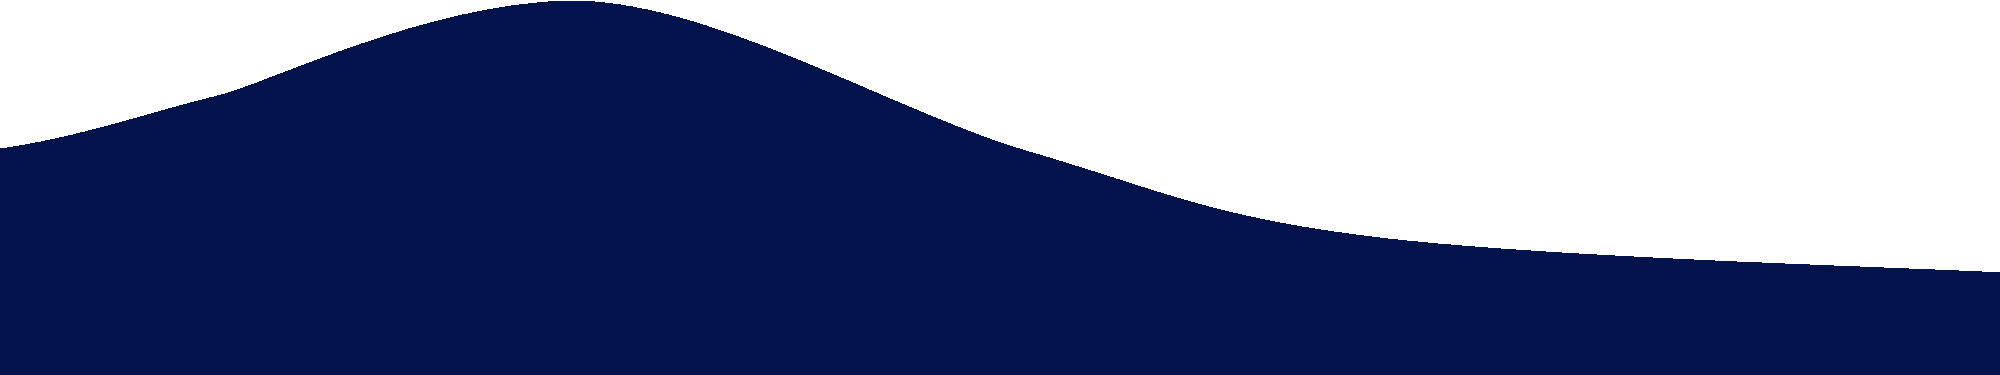
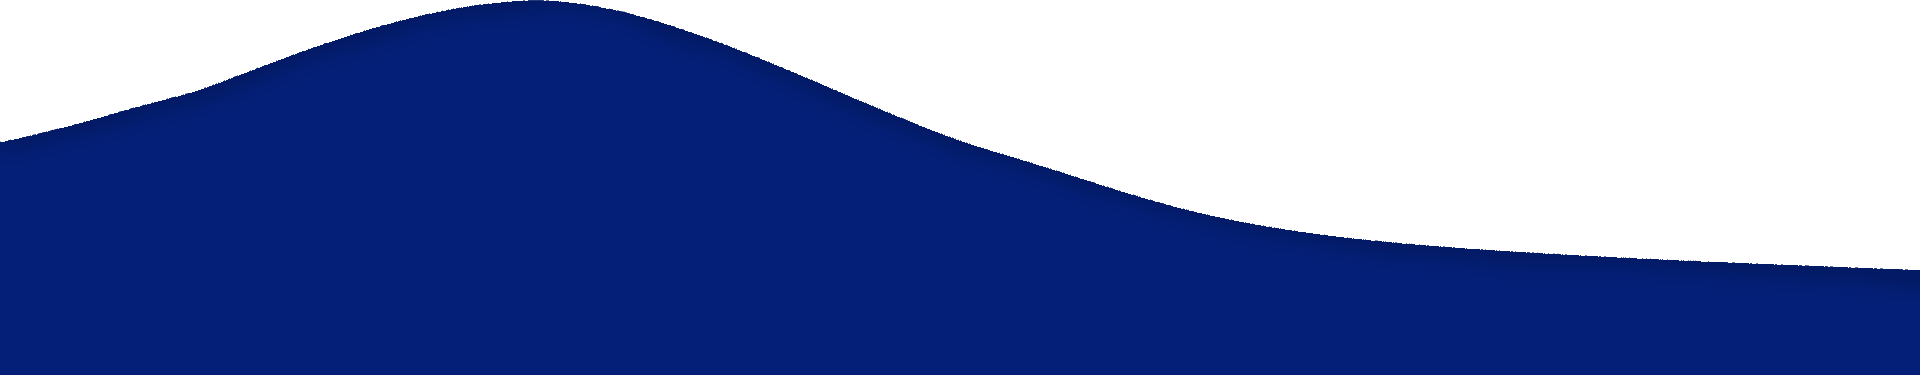
[feat] StarryNightComponent 배경 parallax 구현
- 뒷 산 배경이 parallax하게, 즉 스크롤에 따라 원근감이 느껴지도록
  움직이도록 구현
- ContactComponent의 텍스트가 맨 앞 산에 의해 가려지다가 나타나도록 구조
  수정
- 기타
    - AboutComponent의 Electron 그림을 Web Development에서 Extra로 옮김

diff --git a/public/scripts/starryNight.ts b/public/scripts/starryNight.ts
@@ -1,4 +1,4 @@
-const STAR_NUM = 500;
+const STAR_NUM = 150;
 const STAR_SPEED = 0.4;
 const SHOOTING_STAR_SPEED = 8;
 const TAIL_LENGTH = 150;
@@ -66,8 +66,13 @@ export function initStarrySky() {
   const observer = new IntersectionObserver(
     (entries, _observer) => {
       entries.forEach((entry) => {
-        if (entry.isIntersecting) startDrawing();
-        else stopDrawing();
+        if (entry.isIntersecting) {
+          startDrawing();
+          startParallex();
+        } else {
+          stopDrawing();
+          stopParallex();
+        }
       });
     },
     { threshold: 0.1 }
@@ -75,11 +80,11 @@ export function initStarrySky() {
   if (contactElement) observer.observe(contactElement);
 }
 
-export function startDrawing() {
+function startDrawing() {
   intervalID = window.setInterval(loop, 1000 / 60);
 }
 
-export function stopDrawing() {
+function stopDrawing() {
   window.clearInterval(intervalID);
 }
 
@@ -158,4 +163,50 @@ function resize(canvas: HTMLCanvasElement) {
   canvasHeight = canvas.height = window.innerHeight;
   shootingStarOffset = canvasHeight / tan60;
   context = canvas.getContext('2d');
+}
+
+function startParallex() {
+  window.addEventListener('scroll', moveHillsThrottled);
+  window.addEventListener('scrollend', moveHills);
+}
+
+function stopParallex() {
+  window.removeEventListener('scroll', moveHillsThrottled);
+  window.removeEventListener('scrollend', moveHills);
+}
+
+let timerId: number | null;
+function moveHillsThrottled() {
+  if (timerId) return;
+  timerId = window.setTimeout(() => {
+    moveHills();
+    timerId = null;
+  }, 300);
+}
+
+function moveHills() {
+  const hills = document.getElementsByClassName('hill');
+  const ground = document.getElementById('ground');
+  if (!hills || !ground) return;
+
+  const hillNum = hills.length;
+  if (hillNum === 0) return;
+
+  let scrollRatio =
+    (document.body.scrollHeight - window.scrollY) / window.innerHeight - 1;
+  scrollRatio = Math.min(scrollRatio, 0.4);
+
+  const scale = 1.5;
+  const diff = 0.8;
+  let hill: HTMLElement;
+  let bottom;
+  for (let i = 0; i < hillNum; i += 1) {
+    hill = hills.item(hillNum - 1 - i) as HTMLElement;
+    bottom =
+      window.innerHeight * scale * scrollRatio * (1 - (i * diff) / hillNum);
+    bottom = Math.max(bottom, 0);
+    hill.style.bottom = `${bottom}px`;
+  }
+  bottom = Math.max(window.innerHeight * scale * scrollRatio, 0);
+  ground.style.height = `${bottom}px`;
 }

diff --git a/app/components/contact/ContactComponent.tsx b/app/components/contact/ContactComponent.tsx
@@ -1,11 +1,12 @@
 import Image from 'next/image';
 import styles from './contact.module.css';
 import Link from 'next/link';
-import StarryNight from './StarryNight';
+import StarryNightComponent from './StarryNightComponent';
 export default function ContactComponent() {
   return (
     <>
       <div className={styles.contactWrapper} id="contact">
+        <StarryNightComponent />
         <p className={styles.title}>Contact</p>
         <div className={styles.contentWrapper}>
           <div className={styles.content}>
@@ -26,12 +27,6 @@ export default function ContactComponent() {
             <span className={styles.desc}>https://dev-wann.tistory.com</span>
             <Link href="https://dev-wann.tistory.com"></Link>
           </div>
-        </div>
-        <div className={styles.background}>
-          <StarryNight />
-          {images.hill1}
-          {images.hill2}
-          {images.hill3}
         </div>
         <div className={styles.footer} id="footer"></div>
       </div>
@@ -62,30 +57,6 @@ const images = {
       alt="Blog icon"
       fill={true}
       style={{ objectFit: 'contain', filter: 'invert(100%)' }}
-    ></Image>
-  ),
-  hill1: (
-    <Image
-      src="/img/contact/hill-1.png"
-      alt="hill"
-      fill={true}
-      style={{ objectFit: 'contain' }}
-    ></Image>
-  ),
-  hill2: (
-    <Image
-      src="/img/contact/hill-2.png"
-      alt="hill"
-      fill={true}
-      style={{ objectFit: 'contain' }}
-    ></Image>
-  ),
-  hill3: (
-    <Image
-      src="/img/contact/hill-3.png"
-      alt="hill"
-      fill={true}
-      style={{ objectFit: 'contain' }}
     ></Image>
   ),
 };

diff --git a/app/components/contact/StarryNightComponent.tsx b/app/components/contact/StarryNightComponent.tsx
@@ -1,0 +1,57 @@
+'use client';
+
+import { useEffect } from 'react';
+import Image from 'next/image';
+import styles from './starrynight.module.css';
+import { initStarrySky } from '@/public/scripts/starryNight';
+
+export default function StarryNightComponent() {
+  useEffect(() => {
+    initStarrySky();
+  });
+  return (
+    <>
+      <canvas className={styles.starryNight} id="starry_night"></canvas>
+      <div className={`${styles.hill} hill`}>{images.hill1}</div>
+      <div className={`${styles.hill} hill`}>{images.hill2}</div>
+      <div className={`${styles.hill} hill`}>{images.hill3}</div>
+      <div className={`${styles.hill} hill`}>{images.hill4}</div>
+      <div className={styles.ground} id="ground"></div>
+    </>
+  );
+}
+
+const images = {
+  hill1: (
+    <Image
+      src="/img/contact/hill-1.png"
+      alt="hill"
+      fill={true}
+      style={{ objectFit: 'contain', filter: 'brightness(95%)' }}
+    ></Image>
+  ),
+  hill2: (
+    <Image
+      src="/img/contact/hill-2.png"
+      alt="hill"
+      fill={true}
+      style={{ objectFit: 'contain', filter: 'brightness(90%)' }}
+    ></Image>
+  ),
+  hill3: (
+    <Image
+      src="/img/contact/hill-3.png"
+      alt="hill"
+      fill={true}
+      style={{ objectFit: 'contain' }}
+    ></Image>
+  ),
+  hill4: (
+    <Image
+      src="/img/contact/hill-4.png"
+      alt="hill"
+      fill={true}
+      style={{ objectFit: 'contain', zIndex: 2 }}
+    ></Image>
+  ),
+};

diff --git a/app/components/about/AboutComponent.tsx b/app/components/about/AboutComponent.tsx
@@ -88,7 +88,7 @@ export default function AboutComponent() {
         <div className={styles.desc}>
           <h3>Description</h3>
           <ul>
-            <li>Electron 기반 오피스 제품군(SuperOffice) 개발</li>
+            <li>Web & Electron 기반 오피스 제품군(SuperOffice) 개발</li>
             <li>다중 사용자 동시 편집 기능 및 다양한 UI 기능 구현</li>
           </ul>
         </div>
@@ -146,11 +146,11 @@ export default function AboutComponent() {
         <h3>Web development</h3>
         <div className={styles.skillsLogo}>
           {images.typescript} {images.react} {images.mobx} {images.html}
-          {images.css} {images.javascript} {images.electron} {images.jest}
+          {images.css} {images.javascript} {images.jest}
         </div>
         <h3>Extra</h3>
         <div className={styles.skillsLogo}>
-          {images.gitlab} {images.github} {images.cpp}
+          {images.gitlab} {images.github} {images.electron} {images.cpp}
         </div>
       </div>
     </div>

diff --git a/app/components/contact/contact.module.css b/app/components/contact/contact.module.css
@@ -6,11 +6,12 @@
   justify-content: center;
   height: 100vh;
   margin: auto;
+  background-image: linear-gradient(180deg, black, #0834c6);
 }
 
 .contentWrapper {
   box-sizing: border-box;
-  margin: 0 auto 10vh auto;
+  margin: 0 auto 5vh auto;
 }
 
 .content {
@@ -35,7 +36,7 @@
 }
 
 .title {
-  font-size: max(48px, 3vw);
+  font-size: max(56px, 3.5vw);
   font-weight: bold;
 }
 
@@ -54,19 +55,6 @@
 .desc:nth-child(2) {
   font-weight: bold;
   width: max(104px, 6.5vw);
-}
-
-.background {
-  position: absolute;
-  bottom: 0px;
-  width: 100%;
-  height: 100%;
-  background-image: linear-gradient(180deg, black, #03217f 80%);
-  z-index: -1;
-}
-
-.background > img {
-  object-position: center bottom;
 }
 
 .footer {

diff --git a/app/components/contact/starrynight.module.css b/app/components/contact/starrynight.module.css
@@ -5,3 +5,26 @@
   left: 0px;
   top: 0px;
 }
+
+.hill {
+  position: absolute;
+  bottom: 0px;
+  width: 100vw;
+  height: 100vh;
+  transition: all 1s;
+}
+
+.hill > img {
+  object-position: 50% 100%;
+}
+
+.ground {
+  position: absolute;
+  left: 0px;
+  bottom: 0px;
+  width: 100vw;
+  height: 0px;
+  background-color: #010719;
+  transition: all 1s;
+  z-index: 1;
+}

diff --git a/app/components/scrollDown/scrollDown.module.css b/app/components/scrollDown/scrollDown.module.css
@@ -5,6 +5,7 @@
   transform: translateX(-50%);
   transition: all 500ms;
   opacity: 0;
+  z-index: 999;
 }
 
 .scroll > p {
@@ -60,4 +61,5 @@
   font-size: 1.6em;
   font-weight: bold;
   transition: all 1s;
+  z-index: 999;
 }
